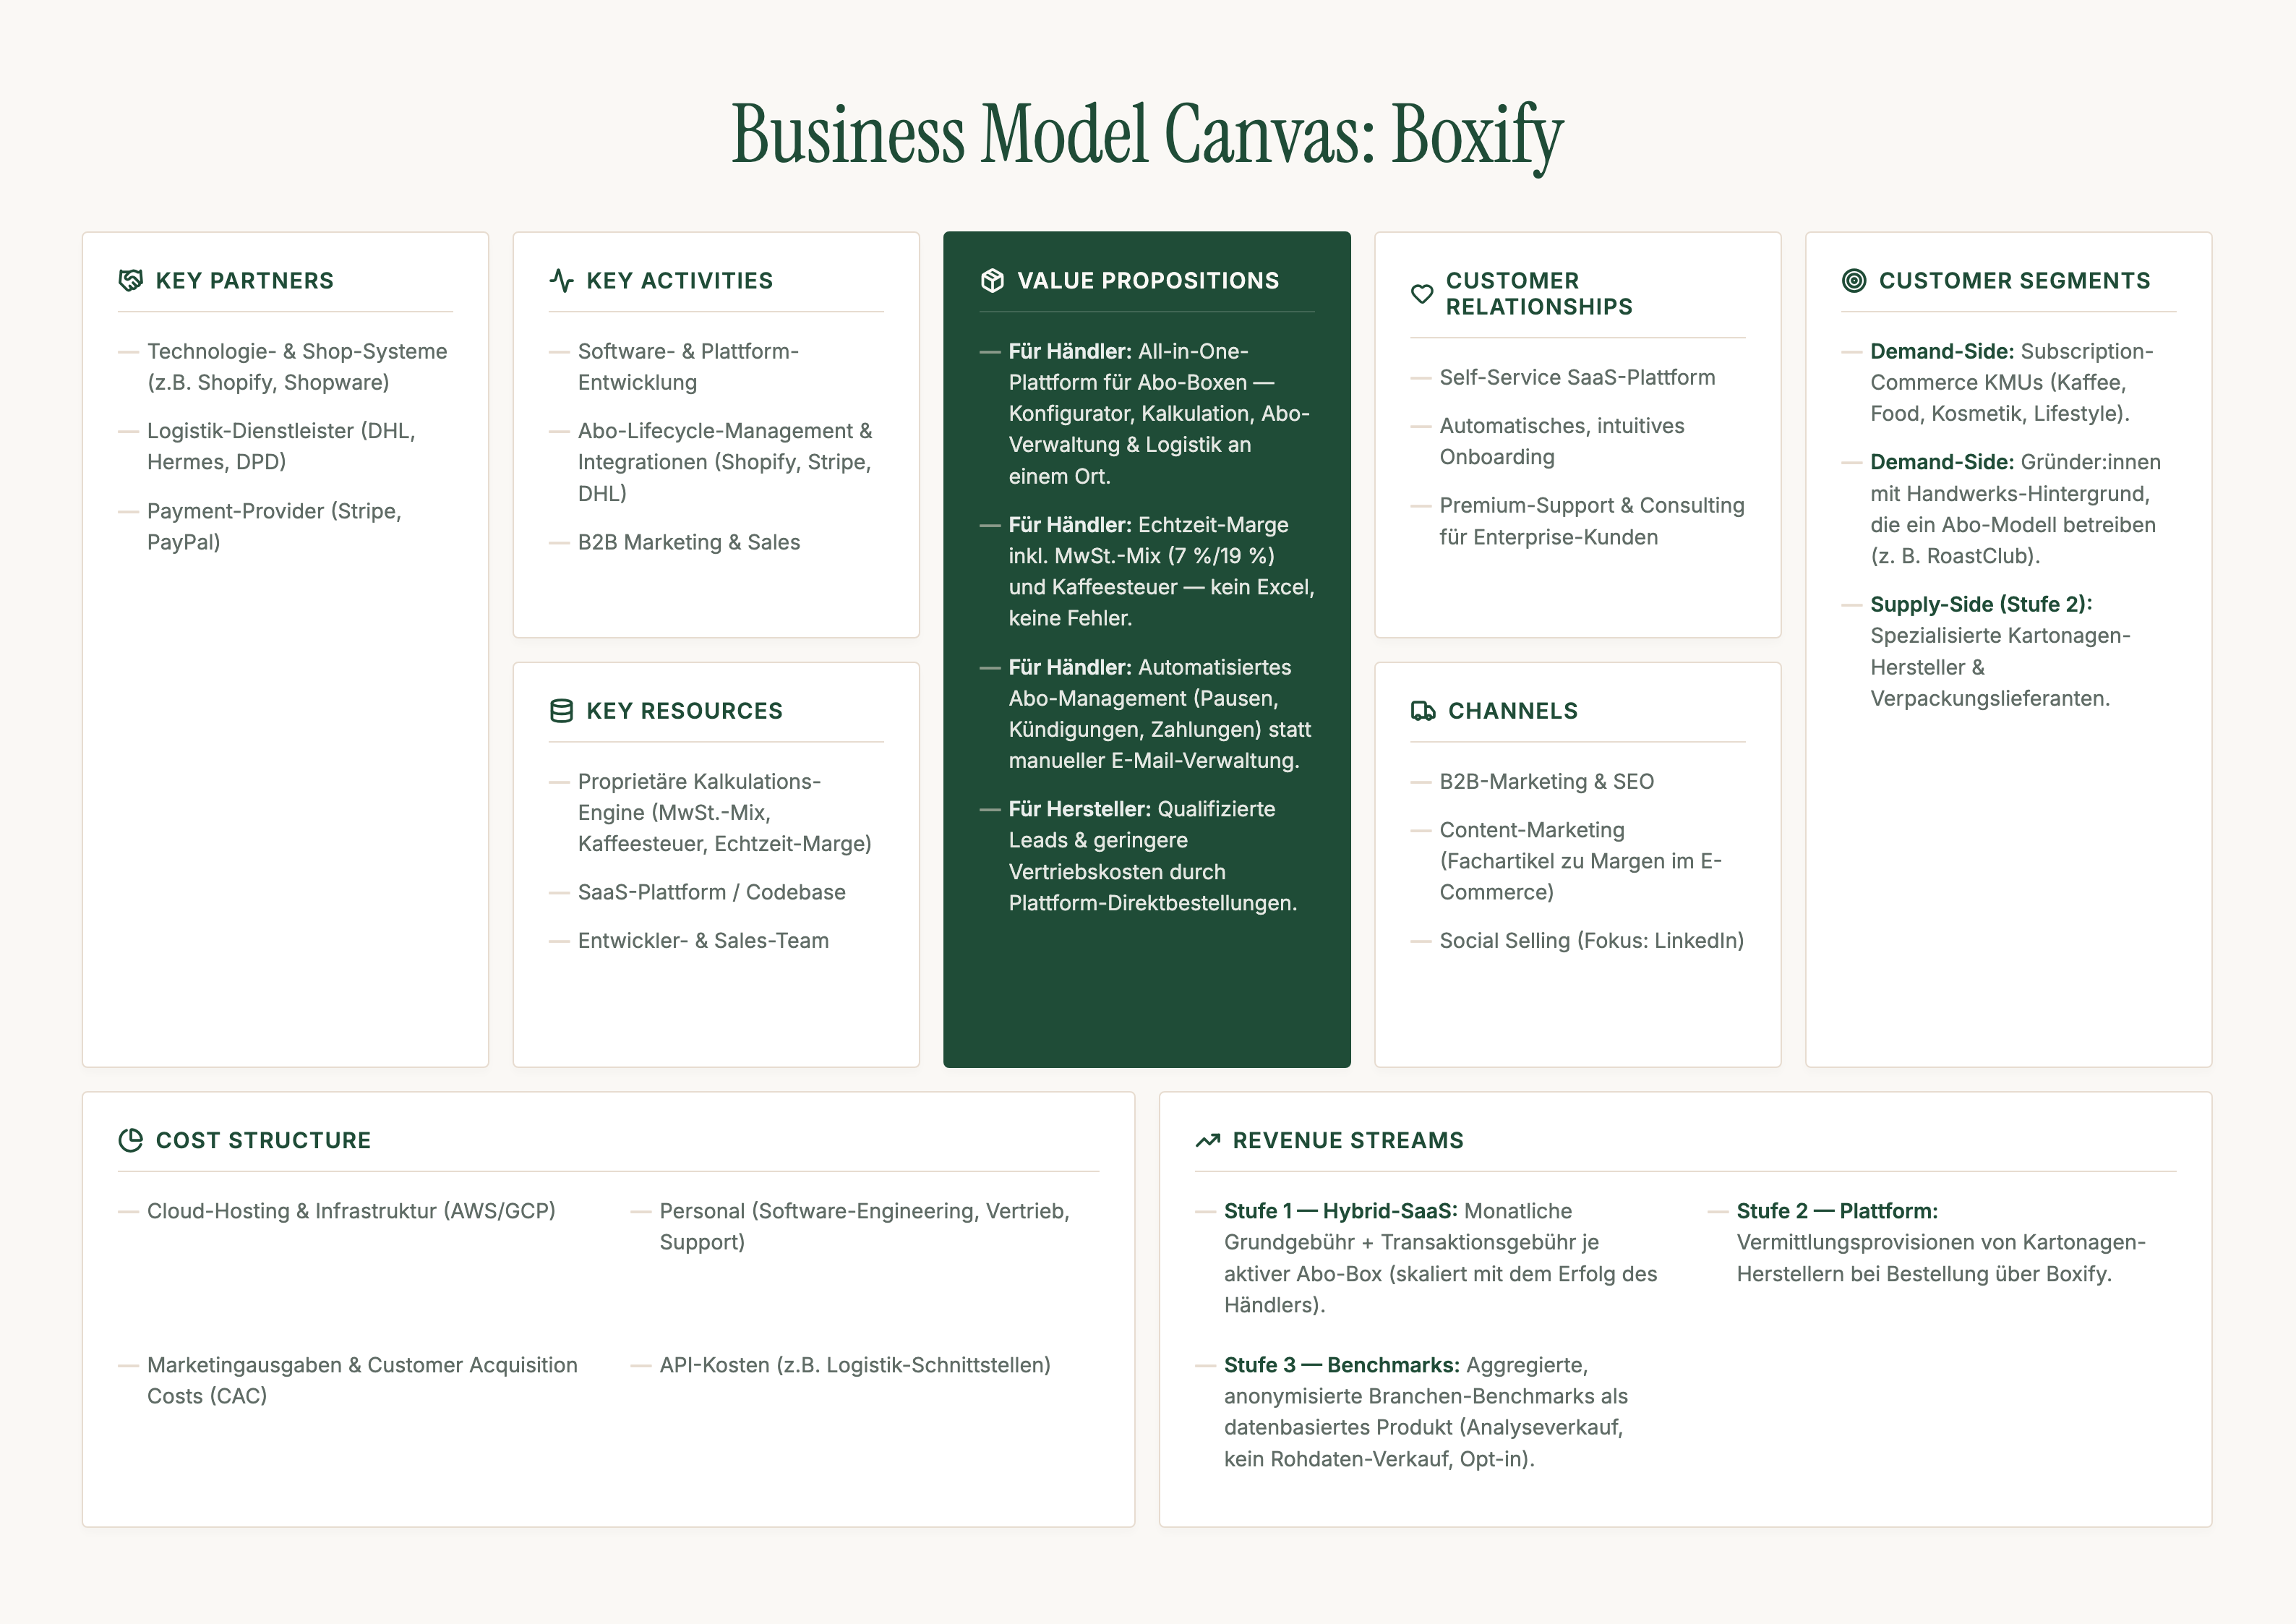
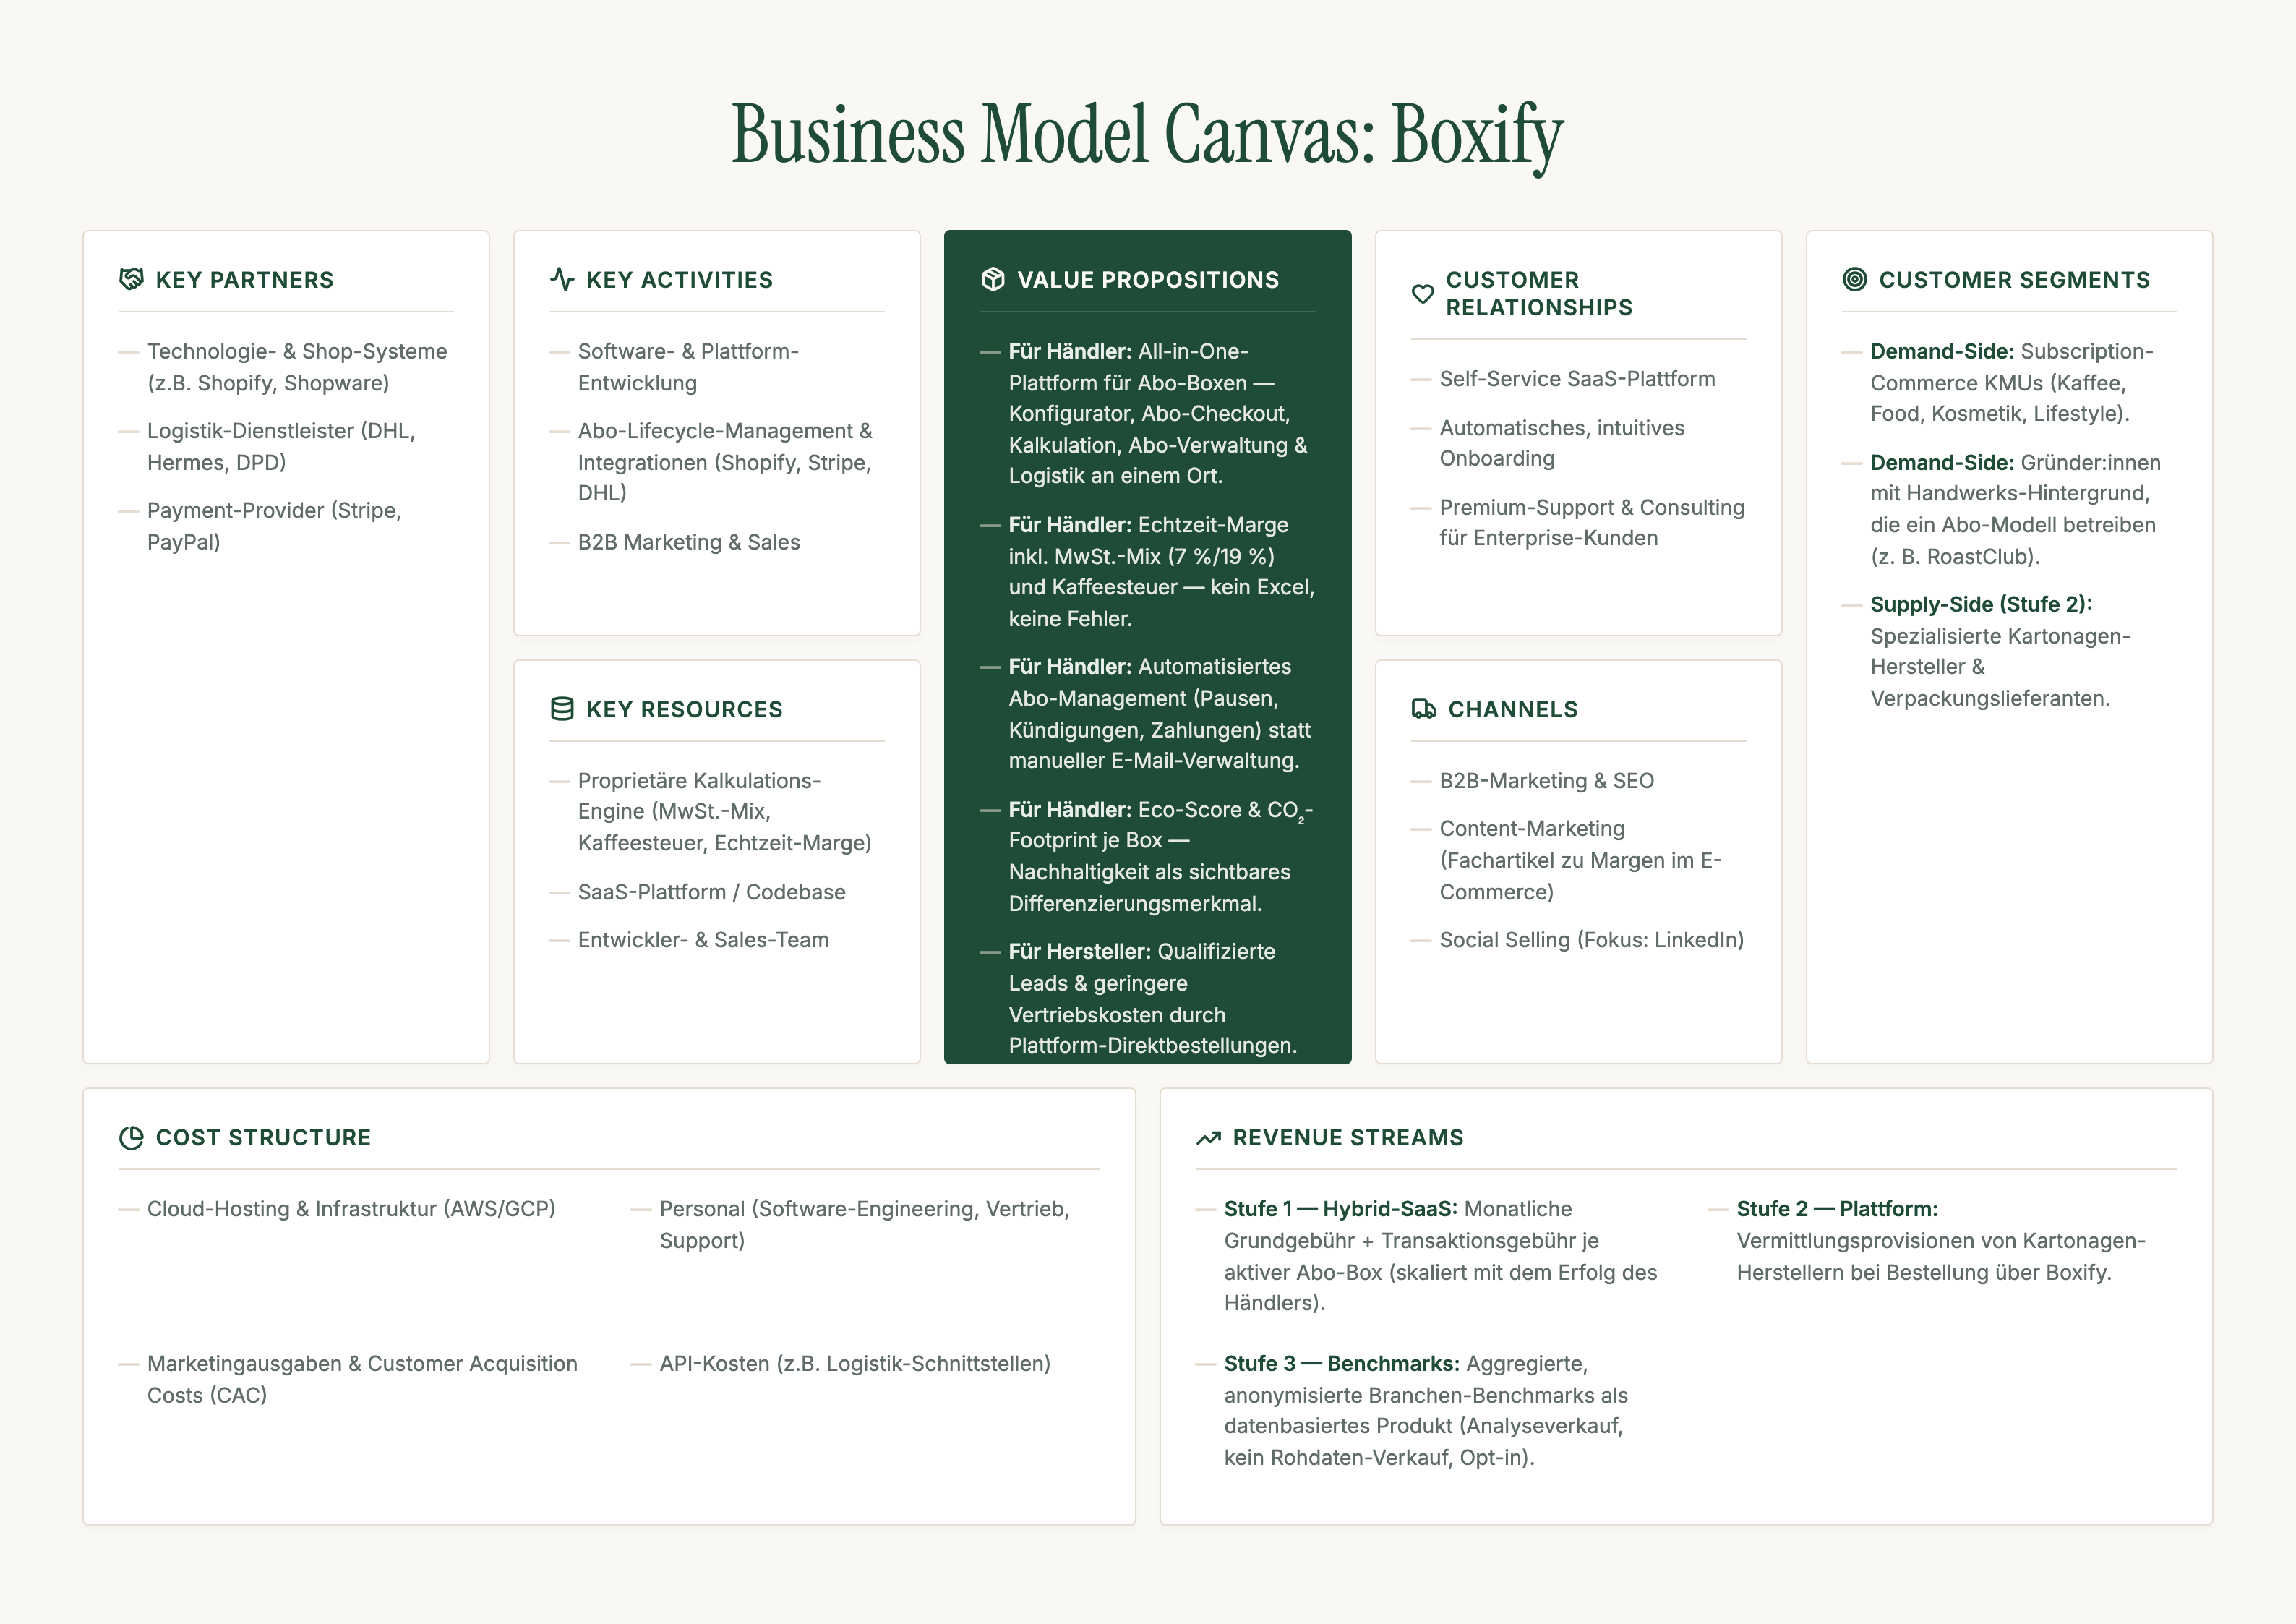
fix: Erlösstufen-Nummerierung vereinheitlichen und Eco-Score-Claim erden
- Widersprüchliche Erlös-Nummern auf sichtbaren Folien entfernt (Folie 10, 13, 14)
- Eco-Score von 'Differenzierungsmerkmal am Markt' zu 'Kaufhebel' entschärft
- CLV/Churn-Verhältnis in Speaker-Note klargestellt

diff --git a/slides.md b/slides.md
@@ -258,51 +258,77 @@ und Kostenmix.
 -->
 
 ---
-layout: boxify-section
+layout: boxify-default
 ---
 
-<div class="eyebrow mb-4 opacity-70">Ideate · Die Lösung</div>
+<div class="eyebrow mb-2">Ideate · Die Lösung</div>
 
 # Boxify — All-in-One für Abo-Boxen
 
-<p class="mt-6 max-w-2xl text-lg">
-  Boxify ist eine <strong>All-in-One SaaS-Plattform</strong>, die Marcos fünf
-  Insellösungen durch <strong>ein einziges System</strong> ersetzt.
+<p class="text-stone max-w-3xl mt-2">
+  Eine <strong>SaaS-Plattform</strong> ersetzt Marcos fünf Insellösungen — von der Bestellung
+  der Endkund:innen bis zur Auswertung, alles unter einem Dach.
 </p>
 
-<div class="grid grid-cols-4 gap-4 mt-8">
+<div class="mt-4 flex items-center gap-3">
+  <span class="eyebrow !text-moss text-xs shrink-0">Endkund:innen bestellen</span>
+  <div class="h-px flex-1 bg-clay"></div>
+</div>
+
+<Card variant="moss" class="!p-4 mt-3">
+  <div class="flex items-baseline gap-4">
+    <div class="font-bold !text-ivory shrink-0">Abo-Checkout</div>
+    <p class="text-sm !text-ivory opacity-90">
+      Aus jeder Box erzeugt Boxify eine <strong>hostbare Bestellseite</strong> — Variante &amp;
+      Intervall wählen, wiederkehrend zahlen (Stripe). Kein zweiter Shop nötig.
+    </p>
+  </div>
+</Card>
+
+<div class="mt-4 flex items-center gap-3">
+  <span class="eyebrow !text-moss text-xs shrink-0">Marco steuert im Hintergrund</span>
+  <div class="h-px flex-1 bg-clay"></div>
+</div>
+
+<div class="grid grid-cols-4 gap-4 mt-3">
   <Card class="text-center !p-4 !text-stone">
-    <div class="eyebrow mb-2 text-xs !text-moss">Säule 1</div>
+    <div class="eyebrow mb-2 text-xs !text-moss">Sortiment</div>
     <div class="text-base font-bold !text-moss">Box-Konfigurator</div>
     <div class="text-xs mt-1">Zusammenstellen &amp; Echtzeit-Marge</div>
   </Card>
   <Card class="text-center !p-4 !text-stone">
-    <div class="eyebrow mb-2 text-xs !text-moss">Säule 2</div>
+    <div class="eyebrow mb-2 text-xs !text-moss">Lifecycle</div>
     <div class="text-base font-bold !text-moss">Abo-Management</div>
     <div class="text-xs mt-1">Pausen, Kündigungen, Zahlungen</div>
   </Card>
   <Card class="text-center !p-4 !text-stone">
-    <div class="eyebrow mb-2 text-xs !text-moss">Säule 3</div>
+    <div class="eyebrow mb-2 text-xs !text-moss">Versand</div>
     <div class="text-base font-bold !text-moss">Logistik</div>
     <div class="text-xs mt-1">Versandzyklen &amp; Paketklassen</div>
   </Card>
   <Card class="text-center !p-4 !text-stone">
-    <div class="eyebrow mb-2 text-xs !text-moss">Säule 4</div>
+    <div class="eyebrow mb-2 text-xs !text-moss">Kennzahlen</div>
     <div class="text-base font-bold !text-moss">Analytics</div>
     <div class="text-xs mt-1">MRR, CLV, Churn, Eco-Score</div>
   </Card>
 </div>
 
-<p class="mt-6 max-w-2xl text-lg opacity-80">
-  Wir liefern die Plattform — <strong>keine Kartons</strong>.
+<p class="text-stone text-sm mt-4 max-w-3xl opacity-80">
+  Im Kern ein <strong>Subscription-Geschäftsmodell</strong>: Boxify wickelt den Abo-Handel ab
+  und liefert die Entscheidungsschicht darüber — wir liefern die Plattform, <strong>keine Kartons</strong>.
 </p>
 
 <!--
 Speaker: Helen.
-Kernbotschaft: Boxify ersetzt Marcos fünf Insellösungen durch eine Plattform. Vier Säulen.
-Alles, was er braucht, um sein Abo-Business zu betreiben, an einem Ort.
-Übergang zu Ahmed: "Wie sieht das in der Praxis aus? Ahmed zeigt euch jetzt unseren
-Prototypen live — wir fokussieren auf den Box-Konfigurator, das Herzstück des MVP."
+Kernbotschaft: Boxify ersetzt Marcos fünf Insellösungen durch eine Plattform — und schließt den
+Kreis vom Endkunden bis zur Auswertung. Front-of-House: aus jeder konfigurierten Box wird
+automatisch eine hostbare Abo-Bestellseite; Endkund:innen wählen Variante & Intervall und zahlen
+wiederkehrend über Stripe — kein separater Shop nötig. Back-Office: Konfigurator, Abo-Management,
+Logistik, Analytics — alles, was Marco zum Betrieb braucht, an einem Ort.
+Falls Nachfrage "welche fünf?": Shop, Excel-Kalkulation, Abo-Verwaltung, Payment, Versandportal —
+der Abo-Checkout ersetzt die Shop-Insel, Payment steckt im Abo-Management (Stripe).
+Übergang zu Ahmed: "Wie sieht das in der Praxis aus? Ahmed zeigt euch jetzt unseren Prototypen
+live — wir fokussieren auf den Box-Konfigurator, das Herzstück des MVP."
 -->
 
 ---
@@ -400,21 +426,25 @@ layout: boxify-default
   <Card variant="moss" class="text-center h-full">
     <div class="eyebrow mb-3 !text-ivory opacity-70">Impact</div>
     <h3 class="!text-ivory text-2xl">Eco-Score</h3>
-    <p class="text-sm opacity-90 mt-2">Mengengewichteter Nachhaltigkeits-Score &amp; CO₂-Footprint — unser Differenzierungsmerkmal am Markt.</p>
+    <p class="text-sm opacity-90 mt-2">Mengengewichteter Nachhaltigkeits-Score &amp; CO₂-Footprint — Nachhaltigkeit als zusätzlicher Kaufhebel für Abo-Kund:innen.</p>
   </Card>
 </div>
 
 <p class="text-stone text-sm mt-8 max-w-3xl">
-  <strong>Heute</strong> Marcos Cockpit — <strong>morgen</strong> die zweite Erlösstufe: dieselben Kennzahlen anonymisiert &amp; aggregiert als <strong>Branchen-Benchmark</strong> (Analyseverkauf, nicht Datenverkauf).
+  <strong>Heute</strong> Marcos Cockpit — <strong>morgen</strong> eine weitere Erlösstufe: dieselben Kennzahlen anonymisiert &amp; aggregiert als <strong>Branchen-Benchmark</strong> (Analyseverkauf, nicht Datenverkauf).
 </p>
 
 <!--
 Speaker: Ahmed — LIVE.
 "Marco sieht nun in Echtzeit seinen MRR, den CLV seiner Abonnent:innen und ob diese Box
 bei 800 Abos wirklich Gewinn bringt. Problem gelöst!"
+Kreis zum Endkunden schließen: Mit dem Abschluss ist die Box live — Boxify stellt automatisch
+die hostbare Abo-Bestellseite bereit, über die Marcos Kund:innen abonnieren (siehe Folie 6).
 Formeln: MRR = Verkaufspreis × (Lieferungen/Jahr ÷ 12); Lieferungen/Jahr = monatlich 12 /
 2-wöchentlich 26 / vierteljährlich 4. annualGrossMargin = Marge × Lieferungen/Jahr;
 CLV(12m) = annualGrossMargin. Eco-Score = mengengewichteter Mittelwert der Produkt-Scores.
+Falls Nachfrage zum CLV: Das ist bewusst ein 12-Monats-Deckungsbeitrag; Churn wird separat
+ausgewiesen und ist hier noch nicht eingerechnet (bewusste Ausbaustufe).
 Benchmark-Ausblick (nur ein Satz): "Diese Kennzahlen laufen über viele Händler durch Boxify —
 anonymisiert und aggregiert werden sie perspektivisch selbst zum Produkt: ein Branchen-Benchmark
 (Analyseverkauf, kein Rohdaten-Verkauf, opt-in). Dazu später mehr."
@@ -433,14 +463,16 @@ layout: boxify-default
   <Card class="h-full">
     <h3>Tech-Stack</h3>
     <p class="mt-4 text-stone">
-      Vite · React 18 · TypeScript · Tailwind CSS. Alle Berechnungen laufen clientseitig über
-      React Context — dadurch reagiert der Wizard in Echtzeit, ganz ohne Server-Roundtrip.
+      Vite · React 18 · TypeScript · Tailwind CSS. Der <strong>MVP</strong> rechnet clientseitig über
+      React Context — der Wizard reagiert in Echtzeit. Die Produktarchitektur ist als
+      <strong>Cloud-SaaS</strong> (AWS/GCP) angelegt.
     </p>
   </Card>
   <Card class="h-full">
     <h3>Sicher &amp; barrierefrei</h3>
     <p class="mt-4 text-stone">
-      Privacy by Design: keine Nutzerdaten auf Servern (DSGVO-freundlich, client-side only).
+      Privacy by Design: <strong>DSGVO-konforme Datentrennung</strong> — personenbezogene Abonnentendaten
+      bleiben geschützt, nur aggregierte, anonymisierte Kennzahlen speisen (Opt-in) die Benchmarks.
       Barrierefreiheit (A11y) von Anfang an mitgedacht.
     </p>
   </Card>
@@ -448,14 +480,14 @@ layout: boxify-default
 
 <!--
 Speaker: Ahmed.
-Kurzer Abriss direkt nach der Demo: Warum die App so schnell ist (React Context für
-clientseitige Steuerberechnungen) und dass Marcos Daten sicher sind, weil nichts serverseitig
-gespeichert wird (Privacy by Design, DSGVO-konform).
-Falls Rückfrage zur späteren Daten-Erlösstufe (kein Widerspruch!): Zwei getrennte Datenklassen —
-(1) personenbezogene Abonnenten-Daten bleiben client-side/geschützt, werden NIE verkauft;
+Kurzer Abriss direkt nach der Demo: Warum der MVP so schnell ist (React Context rechnet die
+Steuern clientseitig im Browser) — das ist der Prototyp-Stand. Das PRODUKT ist als Cloud-SaaS
+(AWS/GCP) angelegt; wichtig, dass diese Trennung klar ist, sonst Widerspruch zur Benchmark-Erlösstufe.
+Datenschutz-Kern: Zwei getrennte Datenklassen —
+(1) personenbezogene Abonnenten-Daten bleiben geschützt, werden NIE verkauft;
 (2) nur aggregierte, anonymisierte Geschäftskennzahlen des Händlers speisen per Opt-in die
 Benchmarks. Das ist Analyseverkauf (aggregierte Analysen), NICHT Datenverkauf (Rohdaten) —
-Topic 2.01 / Parvinen 2020.
+Parvinen 2020.
 Übergang zum Business-Teil: "So viel zur Umsetzung — jetzt: Wie verdienen wir damit Geld?"
 -->
 
@@ -517,11 +549,15 @@ layout: boxify-default
   <Card variant="moss" class="h-full">
     <div class="eyebrow mb-3 !text-ivory opacity-70">Stufe 3 · Skalierung</div>
     <h3 class="!text-ivory text-xl">Indirekter Netzeffekt</h3>
-    <p class="text-sm opacity-90 mt-2">Ab kritischer Masse: Kartonage-Hersteller als Supply-Side aktivieren → Provision als zweite Erlösstufe.</p>
+    <p class="text-sm opacity-90 mt-2">Ab kritischer Masse: Kartonage-Hersteller als Supply-Side aktivieren → Provision als zusätzliche Erlösquelle.</p>
   </Card>
 </div>
 
-<p class="text-stone text-sm mt-8 max-w-3xl">
+<p class="text-stone text-sm mt-6 max-w-3xl">
+  <strong>SaaS-Ökonomie:</strong> Als reine Software skaliert Boxify mit <strong>gegen Null gehenden Grenzkosten</strong> — jeder zusätzliche Händler bringt Umsatz, kaum Zusatzkosten. Genau das macht den planbaren MRR margenstark.
+</p>
+
+<p class="text-stone text-sm mt-4 max-w-3xl">
   <strong>Merksatz:</strong> Boxify stiftet Nutzen ab dem ersten Händler — die Netzeffekte sind die Kür, nicht die Voraussetzung. Und in keiner Stufe verkaufen wir selbst Kartons, wir vermitteln.
 </p>
 
@@ -551,8 +587,8 @@ layout: boxify-section
 
 <p class="mt-4 max-w-2xl text-lg opacity-80">
   <strong>Ausblick:</strong> Anbindung realer Logistik-APIs (DHL/DPD), Mehrwährungsfähigkeit,
-  aggregierte &amp; anonymisierte Branchen-Benchmarks als datenbasierte zweite Erlösstufe —
-  und mittelfristig die Aktivierung der Hersteller-Plattform.
+  die Aktivierung der Hersteller-Plattform (Vermittlungsprovisionen) sowie aggregierte,
+  anonymisierte Branchen-Benchmarks als datenbasierte Erlösstufen.
 </p>
 
 <p class="mt-8 font-serif text-2xl">Vielen Dank für die Aufmerksamkeit.</p>
@@ -561,7 +597,7 @@ layout: boxify-section
 Speaker: Jakob.
 Learnings (was gut lief: agile Entwicklung, Prototyping nach Design Thinking / Lean Startup).
 Bewusst ausgelassen und als Ausblick benannt: reale DHL/DPD-API-Anbindung, Mehrwährung sowie
-die datenbasierte zweite Erlösstufe (anonymisierte Branchen-Benchmarks aus den aggregierten
+die datenbasierte Erlösstufe (anonymisierte Branchen-Benchmarks aus den aggregierten
 Händlerdaten — knüpft an Big Data / datengetriebene Geschäftsmodelle an). Dank ans Plenum,
 dann Fragerunde.
 -->
@@ -577,7 +613,8 @@ layout: boxify-default
 <div class="mt-8 max-w-2xl font-sans text-stone leading-relaxed">
   <p class="border-b border-clay pb-3">Osterwalder, A. &amp; Pigneur, Y. — <em>Business Model Generation</em> (Business Model Canvas).</p>
   <p class="border-b border-clay pb-3 mt-3">Hahn et al. (2018) — Wertschöpfungsmechanismen digitaler Geschäftsmodelle (Neuheit, Effizienz, Komplementarität).</p>
-  <p class="border-b border-clay pb-3 mt-3">Wirtz, B. W. — <em>Electronic Business</em> (Plattformökonomie &amp; Netzeffekte).</p>
+  <p class="border-b border-clay pb-3 mt-3">Wirtz, B. W. — <em>Electronic Business</em> (4C-Net-Business-Modell, Plattformökonomie &amp; Netzeffekte).</p>
+  <p class="border-b border-clay pb-3 mt-3">Parvinen, P. et al. (2020) — <em>Advancing Data Monetization</em> (data-based vs. data-driven Geschäftsmodelle).</p>
 </div>
 
 <!--
@@ -600,7 +637,7 @@ layout: boxify-default
   <p><strong class="text-forest">BMC</strong> — Business Model Canvas (Geschäftsmodell auf einen Blick).</p>
   <p><strong class="text-forest">SaaS</strong> — Software as a Service (Software als Abo-Dienst).</p>
   <p><strong class="text-forest">A11y</strong> — Accessibility (Barrierefreiheit).</p>
-  <p><strong class="text-forest">Kaffeesteuer</strong> — Verbrauchsteuer auf Röstkaffee: 2,19 €/kg (§ 1 KaffeeStG).</p>
+  <p><strong class="text-forest">Kaffeesteuer</strong> — Verbrauchsteuer auf Röstkaffee: 2,19 €/kg (§ 2 KaffeeStG).</p>
   <p><strong class="text-forest">data-based / data-driven</strong> — Daten stützen die Entscheidung vs. Daten sind das Wertangebot (Parvinen 2020).</p>
   <p><strong class="text-forest">Analyseverkauf</strong> — Verkauf aggregierter, anonymisierter Analysen (Benchmarks) statt Rohdaten — DSGVO-sicher.</p>
 </div>